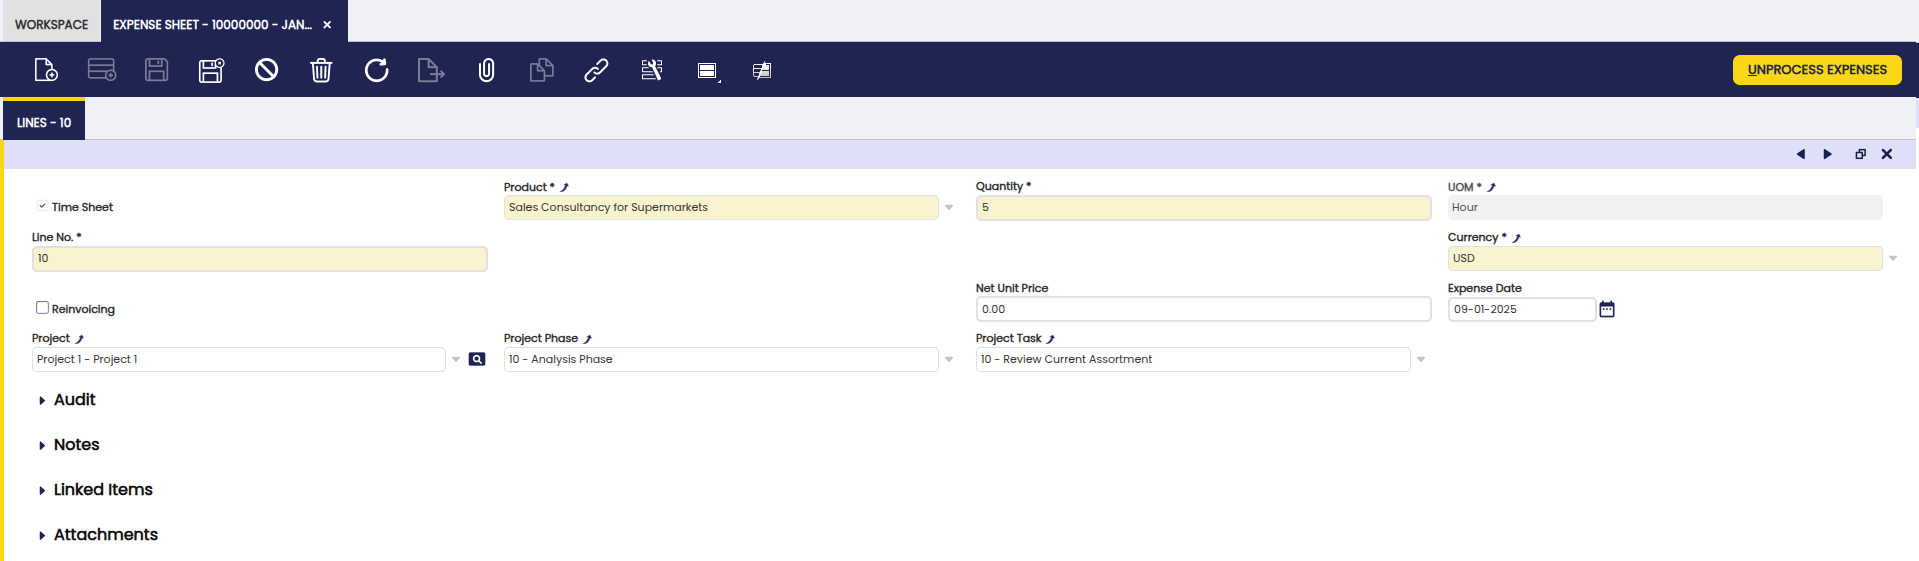
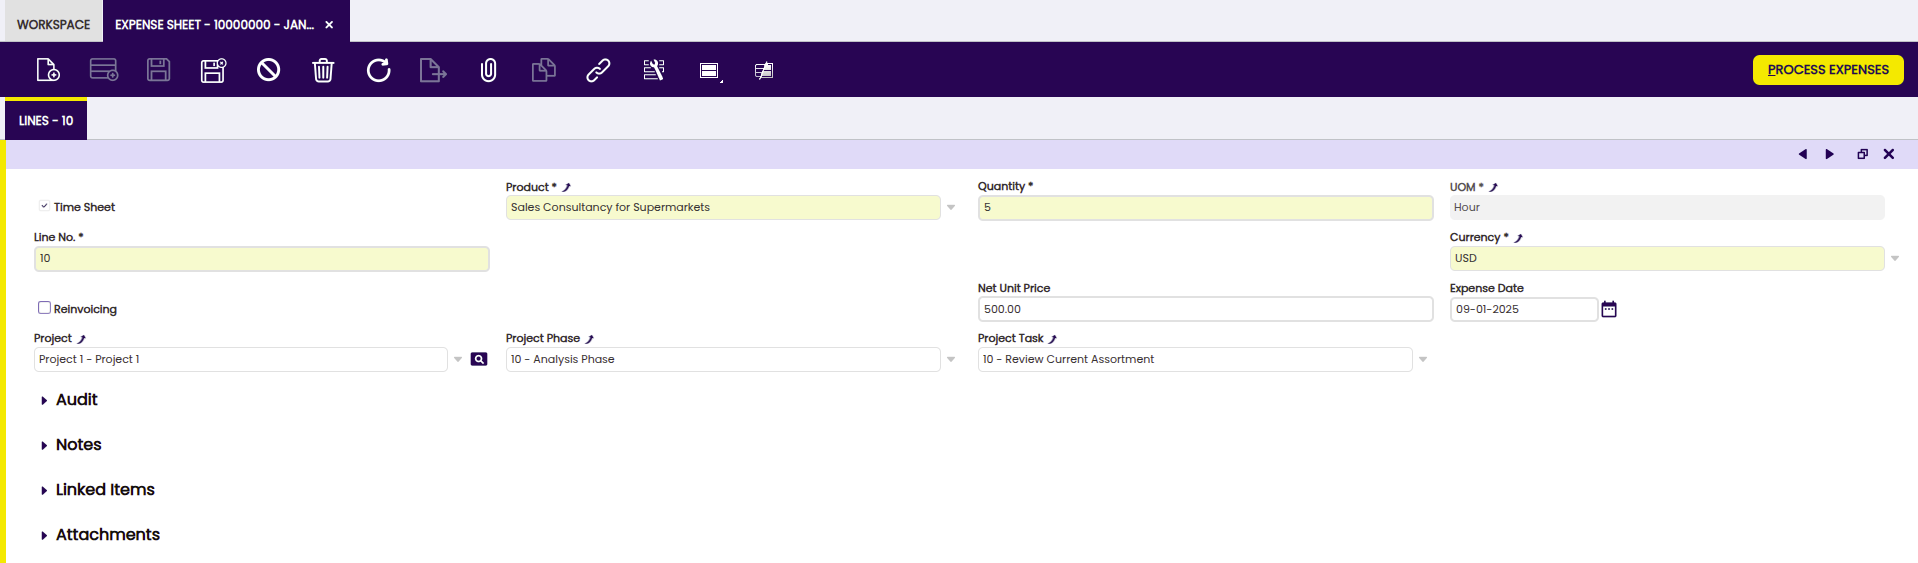
Feature ETP-942: Edit content, add links and screenshots.

diff --git a/docs/user-guide/etendo-classic/basic-features/project-and-service-management/transactions.md b/docs/user-guide/etendo-classic/basic-features/project-and-service-management/transactions.md
@@ -35,7 +35,7 @@ This window is used to manage a project, its related phases and tasks and to pop
 - The schedule: based on planned start dates and end dates, the progress of the project can be monitored.
 
 !!! important
-    From the multiphase project window, sales orders, in draft status, are generated at the end of each completed phase. This is done with the [**Create Sales Order from Project Phase**]() button at Project Phase tab level.
+    From the multiphase project window, sales orders, in draft status, are generated at the end of each completed phase. This is done with the [**Create Sales Order from Project Phase**](../project-and-service-management/transactions.md#process-button) button at Project Phase tab level.
 
 ### Header
 
@@ -106,13 +106,16 @@ The following fields are displayed in this tab:
 - Product: product or service that is sold in the phase.
 - Quantity: quantity of the product to be sold in the phase.
 
-    !!!note:
-        Above fields are copied from the Project Type if the Set Project Type functionality is used.
+    !!!note
+        Above fields are copied from the [Project Type](../project-and-service-management/setup.md#project-type) if the [Set Project Type](#process-buttons) functionality is used.
+
 - Net Unit Price: When filled out, this is the new unit price that will appear for the phase on the sales order, thus overwriting the price list net unit price.
 - Starting Date: Planned starting date of the phase.
 - Planned End Date: Planned ending date of the phase.
-    !!!note: 
-        Starting Date and Planned End Date of the phase are calculated based on the start date and the Standard Duration in Days defined in the Project Type if the Set Project type functionality is used.
+
+    !!!note 
+        Starting Date and Planned End Date of the phase are calculated based on the start date and the Standard Duration in Days defined in the [Project Type](../project-and-service-management/setup.md#project-type) if the [Set Project Type](#process-buttons) functionality is used.
+
 - Ending Date: actual ending date to be filled out manually. This date does not get populated when selecting and saving the Phase Complete checkbox.
 - Phase Complete checkbox: to set the phase to complete. In order to set the phase to Phase Complete, it is not mandatory that the task(s) related to this phase are set to complete first. However, once the Phase Complete checkbox is marked, the tasks of this phase are also marked as completed.
 
@@ -128,6 +131,8 @@ In the More Information section:
 
 - Create Sales Order from Project Phase: to create a sales order upon completion of a phase. From the sales order, a sales invoice is created to document that the customer has to pay for the executed work on the project.
 
+    !!!info
+        The created sales order includes all the lines from the phase and its related tasks.
 
 ### Project Task Subtab
 
@@ -142,11 +147,17 @@ The following fields are displayed in this subtab:
 - Name: name of the task
 - Product: product or service that is sold related to this task.
 - Quantity: quantity of the product to be sold for the task.
-    - Note: Above fields are copied from the Project Type if the Set Project Type functionality is used.
+
+    !!!note
+        Above fields are copied from the Project Type if the Set Project Type functionality is used.
+
 - Net Unit Price: when filled out, this is the new unit price that will appear for the task on the sales order, thus overwriting the price list net unit price.
 - Starting Date: planned starting date
 - Planned End Date: planned ending date
-    - Note: Starting Date and Planned End Date of the task are calculated based on the start date and the Standard Duration in Days defined in the Project Type if the Set Project type functionality is used.
+
+    !!!note
+        Starting Date and Planned End Date of the task are calculated based on the start date and the Standard Duration in Days defined in the Project Type if the Set Project type functionality is used.
+
 - Ending Date: actual ending date to be filled out manually. This date does not get populated when selecting and saving the Task Complete checkbox.
 - Task Complete checkbox: to set the task to completed.
 
@@ -177,21 +188,18 @@ In this window, the user can create and process an expense sheet.
 
 ![](../../../../assets/user-guide/etendo-classic/basic-features/project-and-services-management/transactions/expense-sheet.png)
 
-Here, the fields to note are:
-
 The fields on this tab are:
 
-- Organization: organization of the expense
-- Document No.: populated number of the expense sheet
+- Organization: organization of the expense.
+- Document No.: populated number of the expense sheet.
 - Employee: employee that made the expense related to a project or spend time on a project. It is important to remark that employees:
-    - need to be created as [Employee](../master-data-management/master-data.md#employee) in Business Partner window
-    - need to be created as Etendo [users](../general-setup/security.md#user) in the User window
+    - need to be created as [Employee](../master-data-management/master-data.md#employee) in Business Partner window,
+    - need to be created as Etendo [users](../general-setup/security.md#user) in the User window,
     - and finally, employee and user need to be related to each other.
     That relationship can be set by selecting Employee business partner record in the employee User record, as shown in the image below.
-- Report Date: date for which the expense is entered
-- Process Expenses button: to execute the processing of the sheet.
+- Report Date: date for which the expense is entered.
 
-    ![](../../../../assets/user-guide/etendo-classic/basic-features/project-and-services-management/transactions/user.png)
+ ![](../../../../assets/user-guide/etendo-classic/basic-features/project-and-services-management/transactions/user.png)
 
 ### Lines Tab
 
@@ -202,20 +210,24 @@ In this tab, the user can add time and regular expense lines to the sheet. Each 
 The fields to note in this tab are:
 
 - Time Sheet checkbox: to indicate if the expense is for time or item expenses.
-- Product: product related to the expense line. As seen in the configuration section, for time sheets, the products set up with Product - Type Service appear. For item expenses, products set up with Product Type Expense Type appear.
-- Quantity: quantity for the registered product
-- UOM: unit of measure of the product
+- Product: product related to the expense line. As seen in the [configuration](../project-and-service-management/getting-started.md#configuration) section, for time sheets, the products set up with Service type appear. For item expenses, products set up with Expense type appear.
+- Quantity: quantity for the registered product.
+- UOM: unit of measure of the product.
 - Line No.: numbering of the line. By default 10,20,30,...etc.
-- Expense Amount: not visible on time sheet. Populated field with the amount information
+- Expense Amount: not visible on time sheet. Populated field with the amount information.
 - Converted Amount: not visible on time sheet. Amount of the expense converted to the currency of the client.
-- Currency: currency of the entered expense
+- Currency: currency of the entered expense.
 - Reinvoicing checkbox: checkbox to indicate if the customer (the business partner related to the project) will be invoiced for this expense.
 - Business Partner: only visible when the Reinvoicing checkbox is selected. The Business Partner that is invoiced for the expense. The value will be populated based on the entered project information.
-- Net Unit Price: price related to the product
-- Expense Date: date related to the reported expense
-- Project: project that the expense relates to
-- Project Phase: project phase that the expense relates to
-- Project Task: project task that the expense relates to
+- Net Unit Price: price related to the product.
+- Expense Date: date related to the reported expense.
+- Project: project that the expense relates to.
+- Project Phase: project phase that the expense relates to.
+- Project Task: project task that the expense relates to.
+
+### Process Button
+
+- Process/Unprocess Expenses: Once the corresponding information of the sheet is entered, you can process the expense. If the document is processed, it is possible to select it and unprocess it to edit it if necessary.
 
 ## Create Sales Orders from Expenses
 

diff --git a/docs/user-guide/etendo-classic/basic-features/project-and-service-management/getting-started.md b/docs/user-guide/etendo-classic/basic-features/project-and-service-management/getting-started.md
@@ -20,7 +20,7 @@ The Project and Service Management module consists of:
 - [Multiphase Project](../project-and-service-management/transactions.md#multiphase-project) to manage project with phases and tasks.
 - [Expense Sheets](../project-and-service-management/transactions.md#expense-sheet) to manage cost related to projects.
 
-DIAGRAM - IMAGE TO EDIT - ALE
+![](../../../../assets/user-guide/etendo-classic/basic-features/project-and-services-management/getting-started/project-and-service-diagram.png)
 
 As seen in this diagram, after setting up the information shown [below](#configuration), in order to manage a project, the user should enter a [Multiphase project](../project-and-service-management/transactions.md#multiphase-project) in the corresponding window. This window allows registering the progress of a project in different [phases](../project-and-service-management/transactions.md#project-phase-tab). Each project includes one or more phases and, in each phase, one or more [tasks](../project-and-service-management/transactions.md#project-task-subtab). For each of these phases, it is possible to perform a [Procure to Pay](../procurement-management/getting-started.md#procure-to-pay-business-flow) process, for necessary purchases in the project, or an [Order to Cash](../sales-management/getting-started.md#order-to-cash-business-flow) process  for necessary sales in the project. For registering required project expenses, the [expense sheet](../project-and-service-management/transactions.md#expense-sheet) window is used. Once one phase is closed, the user can review profitability by using the available [analysis tools](../project-and-service-management/analysis-tools.md). This flow is done for each of the phases of a project, and once all the phases are completed, the project can be [closed](../project-and-service-management/transactions.md#process-buttons).
 
@@ -73,8 +73,8 @@ The [Multiphase Project](../project-and-service-management/transactions.md#multi
 - Planned versus actual cost is monitored on the [Project Profitability](../project-and-service-management/analysis-tools.md#project-profitability) report based on the following:
     - Time sheets and item expenses are reported in [Expense Sheets](../project-and-service-management/transactions.md#expense-sheet) related to the project. Based on the salary category of the employee at the time of the project, the cost of the time spend is calculated by the application.
     - Purchase invoices are created for any purchases, outsourcing cost or expenses reimbursement related to the project. This is done through the [Create AP Expense Invoices](../project-and-service-management/transactions.md#create-ap-expense-invoices).
-    - Sales invoices are created as a result of the Expense Sheets of the project. This is done through the [Create Sales Orders from Expenses](../project-and-service-management/transactions.md#create-sales-orders-from-expenses).
-    - At the end of each phase, a Sales Order related to the phase is created from the Multiphase Project using the [Create Sales Order from Project Phase](../project-and-service-management/transactions.md#process-button). The information for the creation of the Sales Order is taken from the definition of the Project and it is made for whom the project is executed. This results in the creation of a Sales Invoice. ??
+    - Sales invoices are created as a result of the Expense Sheets of the project. This is done through the [Create Sales Orders from Expenses](../project-and-service-management/transactions.md#create-sales-orders-from-expenses) process.
+    - At the end of each phase, a Sales Order related to the phase is created from the Multiphase Project using the [Create Sales Order from Project Phase](../project-and-service-management/transactions.md#process-button) process. The information for the creation of the Sales Order is taken from the definition of the Project and it is made for the customer of the project. Later, this results in the creation of a Sales Invoice.
 - The progress of the project is monitored in two ways. For each project, the [phases](../project-and-service-management/transactions.md#project-phase-tab) and [tasks](../project-and-service-management/transactions.md#project-task-subtab) can be marked as completed in the checkbox for this purpose. Also, the [Project Progress](../project-and-service-management/analysis-tools.md#project-progress) report can be used. Remember the accuracy of the information in the report depends on the Complete checkboxes use in the Phase and Task tabs.
 - After completion of all phases, the Multiphase Project status is changed to [Order Closed](../project-and-service-management/transactions.md#process-buttons).
 

diff --git a/docs/user-guide/etendo-classic/basic-features/project-and-service-management/analysis-tools.md b/docs/user-guide/etendo-classic/basic-features/project-and-service-management/analysis-tools.md
@@ -46,12 +46,12 @@ The following information is displayed on the report:
 
 **Planned Services and Expenses**:
 
-- Revenue: the amount from the field Service Revenue on the multiphase project
-- Cost: the amount from the field Services Provided Cost on the multiphase project
-- Outsource: the amount from the field Outsourced Cost on the multiphase project
+- Revenue: the amount from the field Service Revenue on the multiphase project.
+- Cost: the amount from the field Services Provided Cost on the multiphase project.
+- Outsource: the amount from the field Outsourced Cost on the multiphase project.
 - Margin%: the margin from the field Planned Service Margin % on the multiphase project. The planned service margin % is calculated using the formula: (Service Revenue - Services Provided Cost - Outsourced Cost) x 100/Service Revenue.
-- Reinvoicing: the amount from the field Reinvoiced Expenses on the multiphase project
-- Expenses: the amount from the field Planned Expenses on the multiphase project
+- Reinvoicing: the amount from the field Reinvoiced Expenses on the multiphase project.
+- Expenses: the amount from the field Planned Expenses on the multiphase project.
 - Margin%: the margin from the field Planned Expenses Margin % on the multiphase project. The planned expenses margin % is calculated using the formula: (Reinvoiced Expenses - Planned Expenses) x 100/Reinvoiced Expenses.
 - Gross margin: overall planned margin for the project
     - Gross margin amount: calculated using the formula: (Service Revenue - Services Provided Cost - Outsourced Cost) + (Reinvoiced Expenses - Planned Expenses).
@@ -67,17 +67,17 @@ Real Services and Expenses:
 - Outsource: cost of worked hours executed by a third party based on purchases invoices.
 - Margin%: real margin for services based on the formula: (Revenue - Cost -Outsource) x 100/Revenue
 - Reinvoicing: expenses invoiced to the customer on sales invoices for:
-    - purchased goods related to the project
+    - purchased goods related to the project.
     - invoiceable item expenses.
     - only sales invoice lines with products whose type is not service will be taken into account.
 - Expenses: real expenses based on purchase invoices for:
-    - purchased goods related to the project from a vendor
+    - purchased goods related to the project from a vendor.
     - reimbursement for item expenses for an employee.
 - Margin%: real margin for expenses based on the formula: (Reinvoicing - Expenses) x 100/Reinvoicing
 - Gross margin: overall real margin for the project.
     - Gross margin amount: calculated using the formula: (Revenue - Cost - Outsource) + (Reinvoicing - Expenses)
     - Gross margin percentage: calculated using the formula: ((Revenue - Cost - Outsource) + (Reinvoicing - Expenses)) x 100/(Revenue + Reinvoicing)
-- Collected: amount that was collected from the customer for the sales invoices related to the project
+- Collected: amount that was collected from the customer for the sales invoices related to the project.
 
 ![](../../../../assets/user-guide/etendo-classic/basic-features/project-and-services-management/analysis-tools/project-profitability.png)
 

diff --git a/docs/user-guide/etendo-classic/basic-features/project-and-service-management/setup.md b/docs/user-guide/etendo-classic/basic-features/project-and-service-management/setup.md
@@ -40,12 +40,12 @@ In this tab, the user can define phases and products required during each phase,
 The fields on this tab are:
 
 - Sequence number: numbering of the entered lines. By default 10,20,30,..etc.
-- Name: name of the phase
+- Name: name of the phase.
 - Product: product or service that is sold in the phase.
-- Standard Quantity: quantity of the product to be sold in the phase. For example if the product is Sales Consultancy with a unit of measure set to hours, the quantity 10 entered in this field indicates that 10 hours of Sales Consultancy is sold in this phase.
+- Standard Quantity: quantity of the product to be sold in the phase. For example, if the product is Sales Consultancy with a unit of measure set to hours, the quantity 10 entered in this field indicates that 10 hours of Sales Consultancy is sold in this phase.
 - Standard Duration in Days: the scheduled duration of the phase. Based on this setup, when the project type is used for a multiphase project, the begin and end dates of each phase is based on this setup.When left blank at the phase level, the begin date will be populated based on the start date of the project and the end date will be left blank.
-- Active checkbox: indication of validity of the line
-- Description: note field for the phase
+- Active checkbox: indication of validity of the line.
+- Description: note field for the phase.
 
 
 ### Standard Task Subtab
@@ -57,12 +57,12 @@ Here, the user can define tasks to be completed during each phase. Each task is 
 The fields on the tasks are:
 
 - Sequence number: numbering of the entered lines. By default 10,20,30,..etc.
-- Name: name of the task
+- Name: name of the task.
 - Product: product or service that is sold related to this task.
 - Standard Quantity: quantity of the product to be sold for the task. For example if the product is Sales Consultancy with a unit of measure set to hours, the quantity 10 entered in this field indicates that 10 hours of Sales Consultancy is sold related to this task.
 - Standard Duration in Days: the scheduled duration of the task.
-- Active checkbox: indication of validity of the line
-- Description: note field for the phase
+- Active checkbox: indication of validity of the line.
+- Description: note field for the phase.
 
 ---
 
